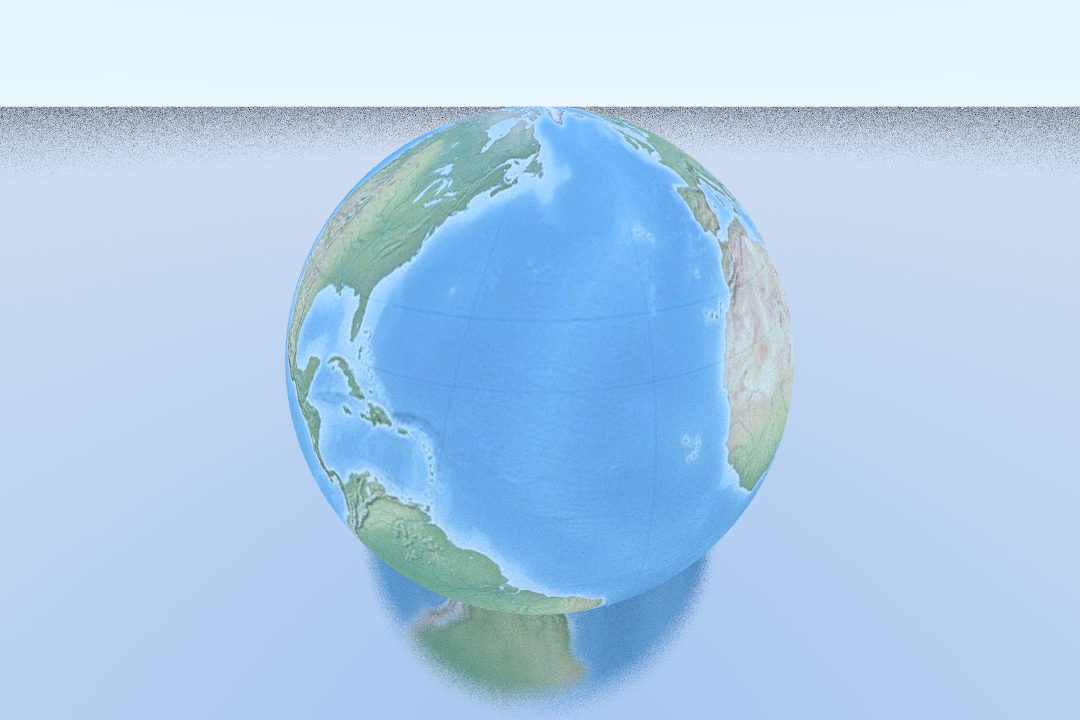
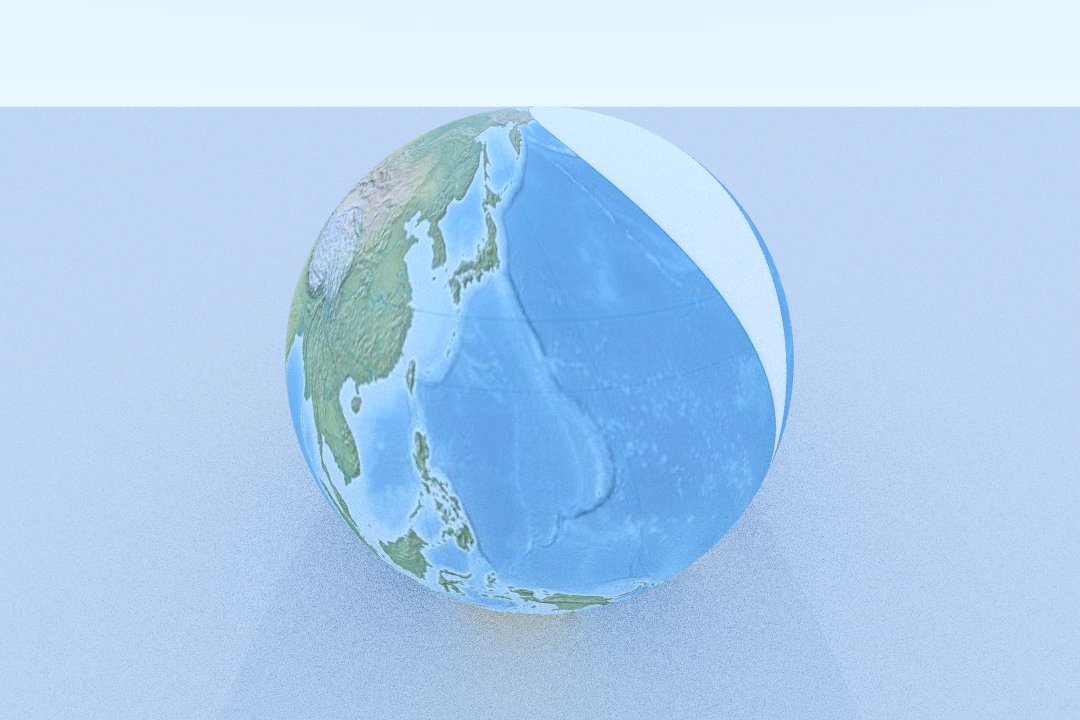
added lighting and next event estimation

diff --git a/renderer/renderer.h b/renderer/renderer.h
@@ -1,33 +1,60 @@
 #pragma once
-
+#include <memory>
 #include <thread>
 #include <vector>
 #include "../core/camera.h"
 #include "../core/hittable.h"
+#include "../lights/light.h"
 
-inline Vec3 ray_color(const Ray &r, const Hittable &world, int depth) {
+using LightList = std::vector<std::shared_ptr<Light>>;
+
+inline Vec3 direct_light(const HitRecord &rec, const Hittable &world, const LightList &lights) {
+  Vec3 direct(0,0,0);
+  for (const auto &light : lights) {
+    LightSample ls = light->sample(rec.point);
+
+    Vec3 to_light = ls.point - rec.point;
+    double dist = to_light.norm();
+    Vec3 to_light_dir = to_light / dist;
+
+    // check if surface faces the light
+    double cos_theta = rec.normal.dot(to_light_dir);
+    if (cos_theta <= 0) continue;
+
+    // shadow ray 
+    HitRecord shadow_rec;
+    Ray shadow_ray(rec.point + rec.normal * 1e-4, to_light_dir);
+    if (world.hit(shadow_ray, 0.001, dist - 0.001, shadow_rec)) continue; // occluded
+
+    // Lambert BRDF * light emission * cos falloff / pdf
+    direct = direct + ls.emission * cos_theta / ls.pdf;
+  }
+  return direct;
+}
+
+inline Vec3 ray_color(const Ray &r, const Hittable &world, const LightList &lights, int depth) {
   if (depth <= 0) return Vec3(0,0,0);
   HitRecord rec;
 
   if (world.hit(r, 0.001, 1000, rec)) {
     Ray scattered;
     Vec3 attenuation;
+    Vec3 direct = direct_light(rec, world, lights);
 
     if (rec.mat->scatter(r, rec, attenuation, scattered)) {
-      return ray_color(scattered, world, depth-1) * attenuation;
+      Vec3 indirect = ray_color(scattered, world, lights, depth-1) * attenuation;
+      return direct + indirect;
     }
 
-    return Vec3(0,0,0);
+    return direct * attenuation;
   }
-
-
+  // sky gradient
   Vec3 unit = r.direction.normalize();
   double t = 0.5*(unit.y + 1.0);
-
-  return Vec3(1,1,1)*(1.0-t) + Vec3(0.5,0.7,1.0)*t; // sky gradient
+  return Vec3(1,1,1)*(1.0-t) + Vec3(0.5,0.7,1.0)*t; 
 }
 
-inline void render_rows(int start_row, int end_row, int width, int height, int samples_per_pixel, int max_depth, const Camera &camera, const Hittable &world, std::vector<Vec3> &framebuffer) {
+inline void render_rows(int start_row, int end_row, int width, int height, int samples_per_pixel, int max_depth, const Camera &camera, const Hittable &world, const LightList &lights, std::vector<Vec3> &framebuffer) {
   for (int j = start_row; j < end_row; ++j) {
     for (int i = 0; i < width; ++i) {
       Vec3 pixel_color(0,0,0);
@@ -37,7 +64,7 @@ inline void render_rows(int start_row, int end_row, int width, int height, int s
         double v = (j + random_double()) / (height - 1);
 
         Ray ray = camera.get_ray(u, v);
-        pixel_color = pixel_color + ray_color(ray, world, max_depth);
+        pixel_color = pixel_color + ray_color(ray, world, lights, max_depth);
       }
       // storing the frames
       framebuffer[j*width + i] = framebuffer[j*width + i] + pixel_color;
@@ -45,7 +72,7 @@ inline void render_rows(int start_row, int end_row, int width, int height, int s
   }
 }
 
-inline void render_image(int width, int height, int samples_per_pixel, int max_depth, const Camera &camera, const Hittable &world, std::vector<Vec3> &framebuffer) {
+inline void render_image(int width, int height, int samples_per_pixel, int max_depth, const Camera &camera, const Hittable &world, const LightList &lights, std::vector<Vec3> &framebuffer) {
   int thread_count = std::thread::hardware_concurrency();
   std::vector<std::thread> threads;
 
@@ -53,7 +80,7 @@ inline void render_image(int width, int height, int samples_per_pixel, int max_d
   for (int t = 0; t < thread_count; ++t) {
     int start = t * rows_per_thread;
     int end = (t == thread_count - 1) ? height : start + rows_per_thread;
-    threads.emplace_back(render_rows, start, end, width, height, samples_per_pixel, max_depth, std::ref(camera), std::ref(world), std::ref(framebuffer));
+    threads.emplace_back(render_rows, start, end, width, height, samples_per_pixel, max_depth, std::ref(camera), std::ref(world), std::ref(lights), std::ref(framebuffer));
   }
   
   for (auto &t :threads) {

diff --git a/src/main.cpp b/src/main.cpp
@@ -24,6 +24,8 @@
 #include "../utils/image_writer.h"
 #include "../textures/solid_color.h"
 #include "../textures/image_texture.h"
+#include "../lights/point_light.h"
+#include "../lights/directional_light.h"
 #include <memory>
  
 
@@ -35,6 +37,10 @@ int main() {
 
   // Making the scene
   HittableList world;
+  LightList lights;
+
+  // lights.push_back(std::make_shared<PointLight>(Vec3(20, 20, 20), Vec3(1,1,1), 100.0));
+  lights.push_back(std::make_shared<DirectionalLight>(Vec3(1,1,1), Vec3(1,1,0.9), 0.05));
 
   auto black = std::make_shared<Lambertian>(std::make_shared<SolidColor>(Vec3(0.8, 0.8, 0.8)));
   auto tinted_glass = std::make_shared<Dielectric>(1.5, std::make_shared<SolidColor>(Vec3(0,0,0.3)));
@@ -42,7 +48,7 @@ int main() {
   auto gold_tint = std::make_shared<Metal>(std::make_shared<SolidColor>(Vec3(0.8, 0.8, 0.8)), 0.1);
   auto earth_mat = std::make_shared<Lambertian>(std::make_shared<ImageTexture>("../assets/earth.jpg"));
 
-  world.add(std::make_shared<Plane>(Vec3(0, -10 , 0), Vec3(0,1,0), gold_tint));
+  world.add(std::make_shared<Plane>(Vec3(0, -10 , 0), Vec3(0,1,0), black));
   
   // std::vector<Triangle*> triangles = load_obj_triangle("assets/models/bunny.obj", earth_mat, 80.0, Vec3(0,0,0));
   // for (auto triangle : triangles) world.add(triangle);
@@ -54,7 +60,7 @@ int main() {
   
   // Camera setup
   double aspect_ratio = double(width)/height;
-  Vec3 lookfrom(20, 20, 20);
+  Vec3 lookfrom(-20, 20, -20);
   Vec3 lookat(0, 0, 0);
   Vec3 vup(0, 1, 0);
   double focus_dist = (lookfrom - lookat).norm();
@@ -67,7 +73,7 @@ int main() {
 
   for (int i = 0; i < samples_per_pixel; ++i) {
     // Rendering pixels
-    render_image(width, height, 1, max_depth, camera, world_bvh, framebuffer);
+    render_image(width, height, 1, max_depth, camera, world_bvh, lights, framebuffer);
     
     save_png("../image.png", width, height, framebuffer, i);
     // if (i % 10 == 0) {

diff --git a/lights/point_light.h b/lights/point_light.h
@@ -1,0 +1,30 @@
+#pragma once 
+#include "light.h"
+#include "../utils/math_utils.h"
+
+class PointLight : public Light {
+public:
+  Vec3 position;
+  Vec3 color;
+  double intensity;
+
+  PointLight(const Vec3 &pos, const Vec3 &col, double intensity);
+  LightSample sample(const Vec3 &from) const override;
+  Vec3 emission(const Vec3 &from, const Vec3 &dir) const override;
+  double pdf(const Vec3 &from, const Vec3 &dir) const override;
+};
+
+PointLight::PointLight(const Vec3 &pos, const Vec3 &col, double intensity) : position(pos), color(col), intensity(intensity) {}
+LightSample PointLight::sample(const Vec3 &from) const {
+  Vec3 dir = position - from;
+  double dist2 = dir.dot(dir);
+  LightSample ls;
+  ls.point = position;
+  ls.normal = (from - position).normalize();
+  ls.emission = color * intensity / dist2; // inv. square falloff
+  ls.pdf = 1.0; // delta dist, i.e only one sample pt
+  return ls;
+}
+Vec3 PointLight::emission(const Vec3 &from, const Vec3 &dir) const {return Vec3(0,0,0);}
+double PointLight::pdf(const Vec3 &from, const Vec3 &dir) const {return 0.0;}
+

diff --git a/lights/directional_light.h b/lights/directional_light.h
@@ -1,0 +1,25 @@
+#pragma once
+#include "light.h"
+
+class DirectionalLight : public Light {
+public:
+  Vec3 direction;
+  Vec3 color;
+  double intensity;
+
+  DirectionalLight(const Vec3 &dir, const Vec3 &col, double intensity);
+  LightSample sample(const Vec3 &from) const override;
+  Vec3 emission(const Vec3 &from, const Vec3 &dir) const override;
+  double pdf(const Vec3 &from, const Vec3 &dir) const override;
+};
+DirectionalLight::DirectionalLight(const Vec3 &dir, const Vec3 &col, double intensity) : direction(dir.normalize()), color(col), intensity(intensity) {}
+LightSample DirectionalLight::sample(const Vec3 &from) const{
+  LightSample ls;
+  ls.point = from + direction * 1e6;
+  ls.normal = direction * -1;
+  ls.emission = color * intensity;
+  ls.pdf = 1.0;
+  return ls;
+}
+Vec3 DirectionalLight::emission(const Vec3 &from, const Vec3 &dir) const{return Vec3(0,0,0);}
+double DirectionalLight::pdf(const Vec3 &from, const Vec3 &dir) const{return 0.0;}

diff --git a/lights/light.h b/lights/light.h
@@ -1,0 +1,18 @@
+#pragma once 
+#include "../core/vec3.h"
+#include "../core/ray.h"
+#include <memory>
+
+struct LightSample {
+  Vec3 point; //pt on light surface
+  Vec3 normal; 
+  Vec3 emission;
+  double pdf; // probability if this sample
+};
+
+class Light {
+public:
+  virtual LightSample sample(const Vec3 &from) const = 0;
+  virtual Vec3 emission(const Vec3 &from, const Vec3 &dir) const = 0;
+  virtual double pdf(const Vec3 &from, const Vec3 &dir) const = 0;
+};
